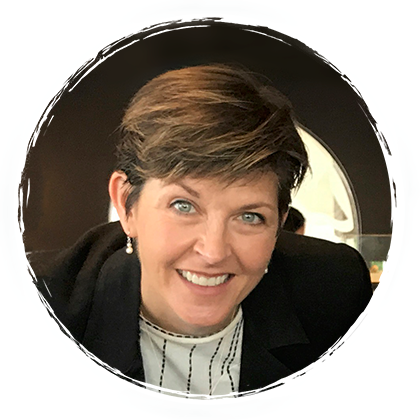
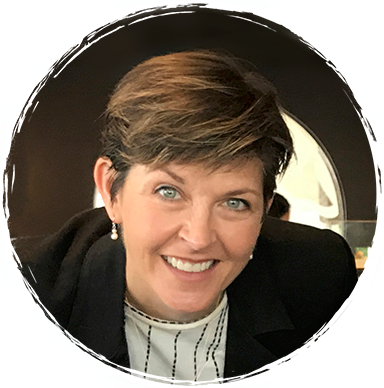
about me layout

diff --git a/css/main.css b/css/main.css
@@ -17,7 +17,7 @@ header {
 .title-block {
   width: 70%;
   margin-left: 100px;
-  padding-top: 100px;
+  padding-top: 62px;
   float: left;
 }
 
@@ -34,12 +34,11 @@ nav li {
   top: 0px;
 }
 main {
-  clear: both;
   padding: 0 100px 0 100px;
 }
 .project-unit {
   width: 545px;
-  height: 560px;
+  padding-bottom: 1.5em;
 }
 
 .float-left {
@@ -52,7 +51,7 @@ main {
   clear: both;
 }
 .project-unit p {
-  margin: 12px 0 12px 0;
+  margin: 1em 0 .5em 0;
 }
 .h-rule {
   width: 100%;
@@ -61,13 +60,27 @@ main {
   margin-bottom: 30px;
 }
 .sabrina {
+  height: 680px;
   background-image: url("../img/AboutBackground.jpg");
+  background-repeat: no-repeat;
+  padding-top: 50px;
+}
+.sabrina img {
+  padding-left: 180px;
+}
+.about {
+  width: 545px;
+  float: right;
+  padding: 50px 100px 100px 100px;
 }
 /* FONTS*/
-body {
+html {
   font-family: 'Montserrat', sans-serif;
   font-size: 20px;
-  line-height: 26px;
+
+}
+body {
+  line-height: 1.5em;
   color: #0d142b;
 }
 h1, h3 {
@@ -84,7 +97,7 @@ h2 {
   text-transform: uppercase;
   font-size: 50px;
   margin-top: 1.25em;
-  margin-bottom: 1.5em;
+  margin-bottom: 2.2em;
 }
 h3 {
   font-size: 69px;
@@ -118,4 +131,7 @@ nav a {
   font-weight: 700;
   text-decoration: none;
   color: #0d142b;
+}
+.sabrina, .sabrina h3, .sabrina h4 {
+  color: #fff;
 }

diff --git a/index.html b/index.html
@@ -25,8 +25,9 @@
         <li><a href="#">Contact</a></li>
       </ul>
     </nav>
-  </header>
 
+  </header>
+  <div class="clear"></div>
     <!--PORTFOLIO SECTION two column rows-->
   <main>
     <h3>Portfolio</h3>
@@ -112,7 +113,7 @@
     <img src="img/profile_pic_18.png" alt="Sabrina Hoeke">
     <div class="about">
       <h4>Creative Technology</h4>
-      <p>My journey began with an interest in digitizing hand drawn illustrations and expanding on their development in Adobe Illustrator and Photoshop. As I became more interested in the programs I expanded my studies into coding for web design. I’m excited to bring creative technology to future projects and help people communicate their ideas to the world via the web. </p>
+      <p>My journey began with an interest in digitizing handdrawn illustrations and expanding on their development in Adobe Illustrator and Photoshop.<br>As I became more interested in the programs<br>I widened my studies into coding for web design.<br>I’m excited to bring creative technology to future projects and help people communicate their ideas<br>to the world via the web. </p>
     </div>
   </section>
 
